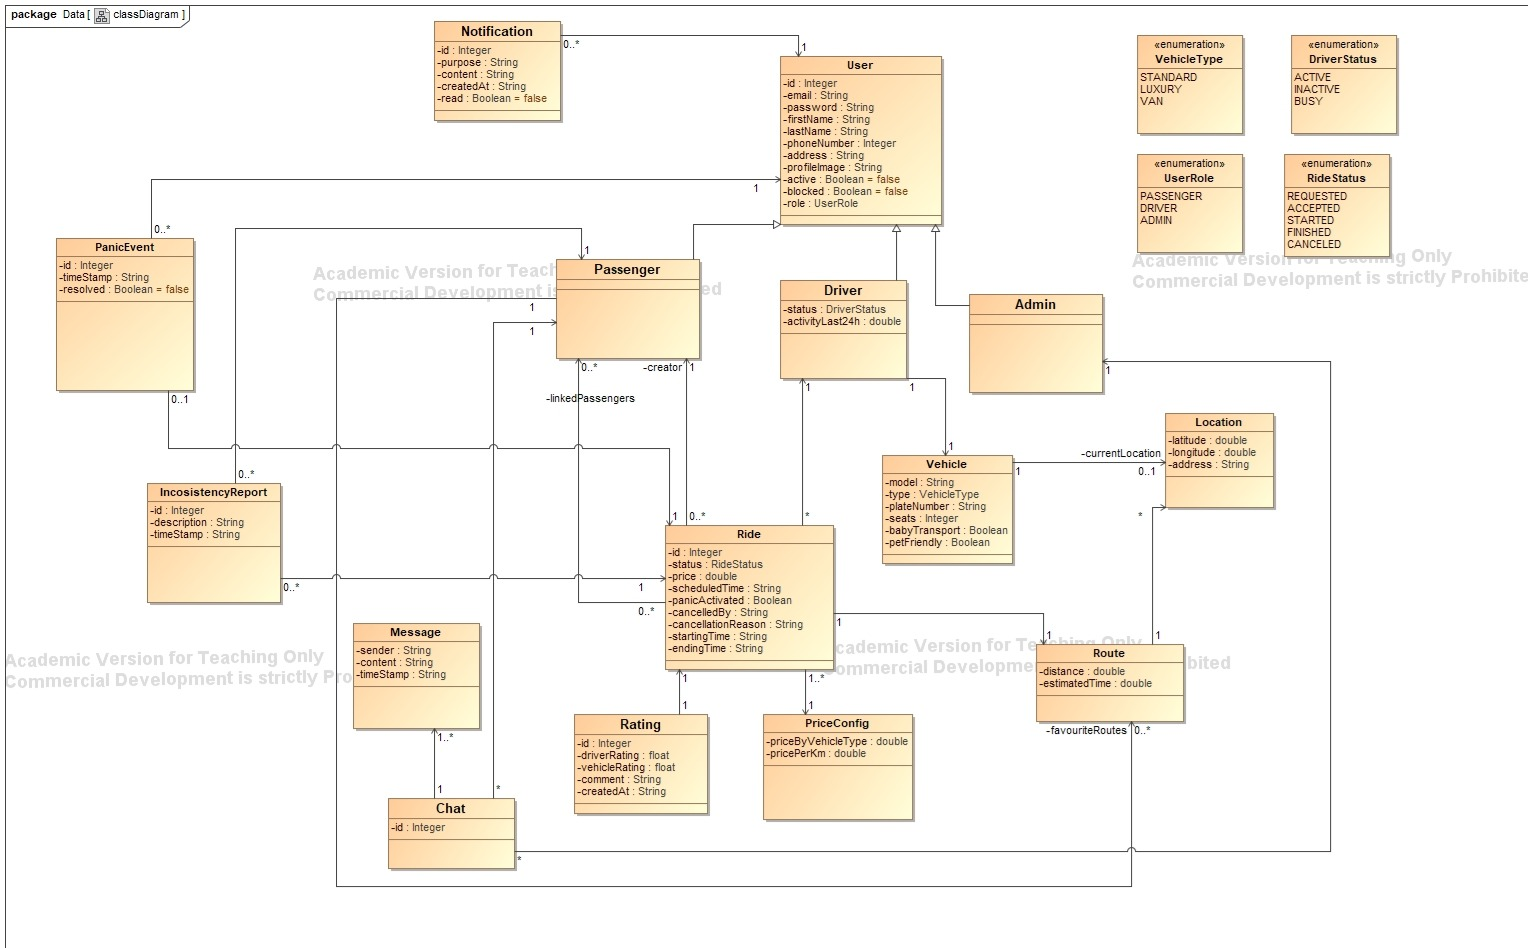
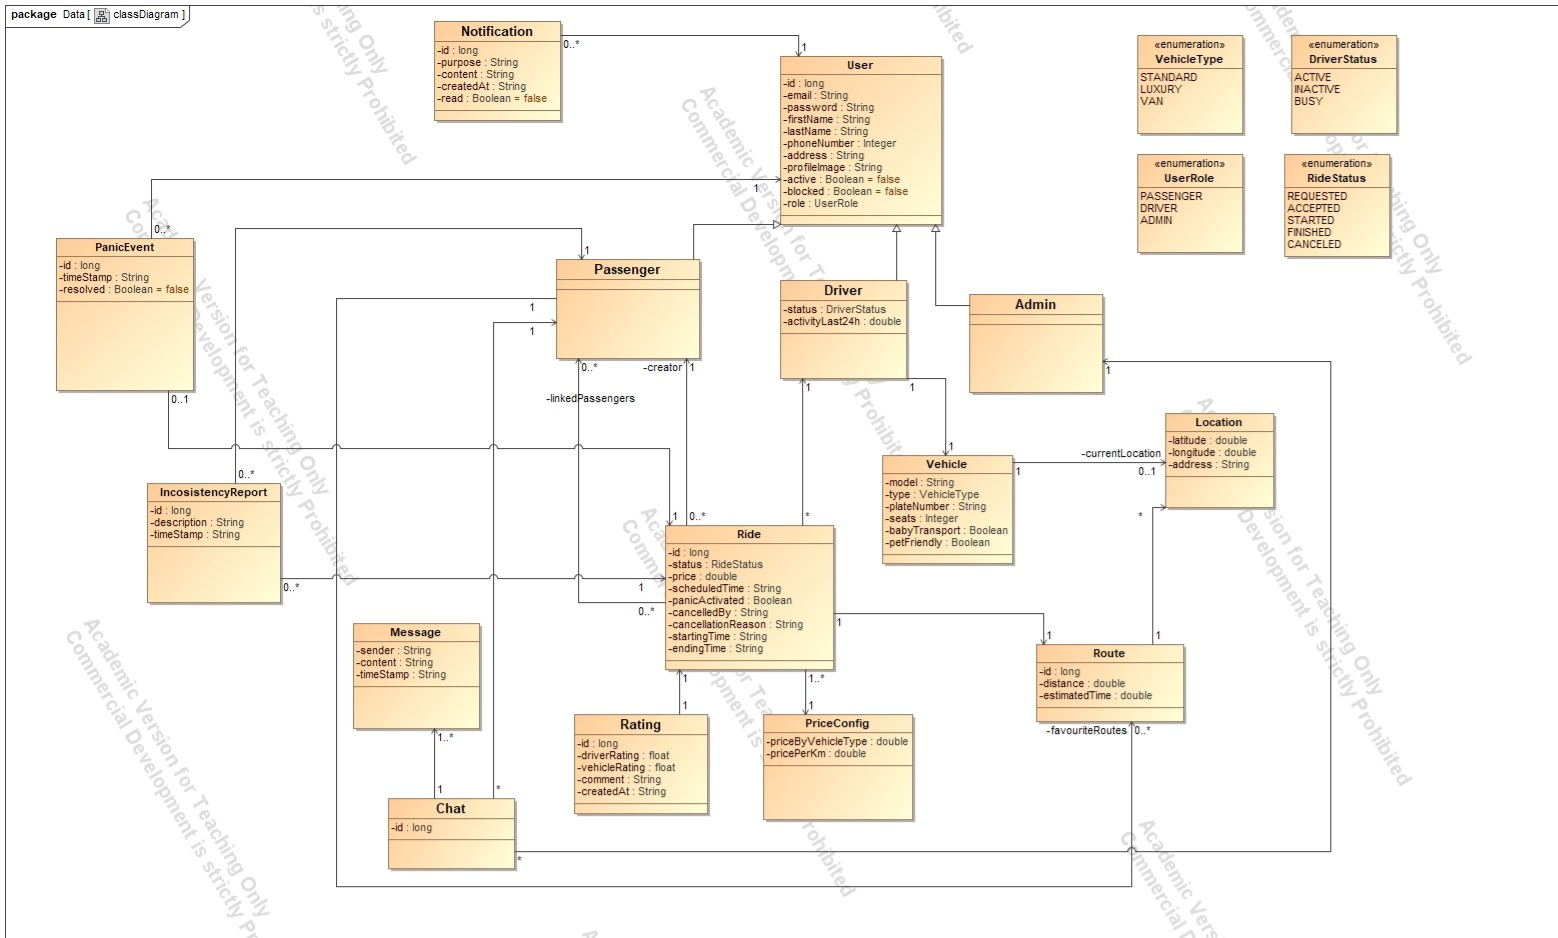
Fix: correct data and syntax inconsistencies (closes #24)

diff --git a/backend/Projekatsiit2025/src/main/java/rs/ac/uns/ftn/asd/Projekatsiit2025/controller/VehicleController.java b/backend/Projekatsiit2025/src/main/java/rs/ac/uns/ftn/asd/Projekatsiit2025/controller/VehicleController.java
@@ -12,6 +12,7 @@ import org.springframework.web.bind.annotation.RestController;
 
 import rs.ac.uns.ftn.asd.Projekatsiit2025.dto.GetVehicleDTO;
 import rs.ac.uns.ftn.asd.Projekatsiit2025.model.Location;
+import rs.ac.uns.ftn.asd.Projekatsiit2025.model.enums.VehicleType;
 
 @RestController
 @RequestMapping("/api/vehicles")
@@ -23,19 +24,34 @@ public class VehicleController {
 		
 		GetVehicleDTO vehicle1=new GetVehicleDTO();
 		vehicle1.setId(1L);
-		vehicle1.setCurrentLocation(new Location(45.9942,19.4456,"Heroja Pinkija 32"));
-		vehicle1.setOccupied(false);
+		vehicle1.setCurrentLocation(new Location(45.9942,19.4456,"Heroja Pinkija 32"));	
+		vehicle1.setModel("Ford focus");
+		vehicle1.setType(VehicleType.STANDARD);
+		vehicle1.setBabyTransport(false);
+		vehicle1.setPetFriendly(false);
+		vehicle1.setPlateNumber("NS-123-NS");
+		vehicle1.setSeats(4);
 		
         GetVehicleDTO vehicle2 = new GetVehicleDTO();
         vehicle2.setId(2L);
-		vehicle2.setCurrentLocation(new Location(44.3342,18.4456,"Bulevar Cara Lazara 17"));
-        vehicle2.setOccupied(true);
-        
+		vehicle2.setCurrentLocation(new Location(44.3342,18.4456,"Bulevar Cara Lazara 17")); 
+		vehicle2.setModel("Mercedes E220");
+		vehicle2.setType(VehicleType.LUXURY);
+		vehicle2.setBabyTransport(false);
+		vehicle2.setPetFriendly(false);
+		vehicle2.setPlateNumber("NS-222-NS");
+		vehicle2.setSeats(4);
+		
         GetVehicleDTO vehicle3 = new GetVehicleDTO();
         vehicle3.setId(3L);
 		vehicle3.setCurrentLocation(new Location(44.5544,18.7856,"Bulevar Cara Lazara 50"));
-        vehicle3.setOccupied(false);
-        
+		vehicle3.setModel("Yugo Coral 45");
+		vehicle3.setType(VehicleType.STANDARD);
+		vehicle3.setBabyTransport(false);
+		vehicle3.setPetFriendly(false);
+		vehicle3.setPlateNumber("NS-569-NS");
+		vehicle3.setSeats(4);
+		
         vehicles.add(vehicle1);
         vehicles.add(vehicle2);
         vehicles.add(vehicle3);

diff --git a/backend/Projekatsiit2025/src/main/java/rs/ac/uns/ftn/asd/Projekatsiit2025/controller/RideController.java b/backend/Projekatsiit2025/src/main/java/rs/ac/uns/ftn/asd/Projekatsiit2025/controller/RideController.java
@@ -202,7 +202,7 @@ public class RideController {
                 new Location(45.2671, 19.8335, request.getStartingAddress()),
                 new Location(45.2550, 19.8450, request.getEndingAddress())
         );
-        Route route = new Route(locations, 5.0, LocalDateTime.now().plusMinutes(15));
+        Route route = new Route(1L,locations, 5.0, LocalDateTime.now().plusMinutes(15));
 
         RideHistoryResponseDTO dto = new RideHistoryResponseDTO();
         dto.setRoute(route);
@@ -247,7 +247,7 @@ public class RideController {
                 new Location(45.2671, 19.8335, "Start Address"),
                 new Location(45.2550, 19.8450, "End Address")
         );
-        Route route = new Route(locations, 5.0, LocalDateTime.now().plusMinutes(15));
+        Route route = new Route(1L,locations, 5.0, LocalDateTime.now().plusMinutes(15));
 
         RideHistoryResponseDTO ride = new RideHistoryResponseDTO();
         ride.setRoute(route);

diff --git a/backend/Projekatsiit2025/src/main/java/rs/ac/uns/ftn/asd/Projekatsiit2025/controller/DriverController.java b/backend/Projekatsiit2025/src/main/java/rs/ac/uns/ftn/asd/Projekatsiit2025/controller/DriverController.java
@@ -94,6 +94,8 @@ public class DriverController {
 			return new ResponseEntity<GetDriverDTO>(HttpStatus.NOT_FOUND);
 		}
 		return new ResponseEntity<GetDriverDTO>(driver, HttpStatus.OK);
+	}
+	
 	@GetMapping("/{driverId}/rides/history")
 	public ResponseEntity<Collection<DriverRideHistoryDTO>> getDriverRideHistory(
 	        @PathVariable Long driverId,
@@ -130,7 +132,7 @@ public class DriverController {
 	    ride1.setRideId(1L);
 	    ride1.setStartingTime(LocalDateTime.of(2025, 1, 10, 14, 30));
 	    ride1.setEndingTime(LocalDateTime.of(2025, 1, 10, 15, 0));
-	    ride1.setRoute(new Route(locations,3.7,LocalDateTime.of(2025, 1, 10, 14, 55)));
+	    ride1.setRoute(new Route(1L,locations,3.7,LocalDateTime.of(2025, 1, 10, 14, 55)));
 	    ride1.setCanceled(false);
 	    ride1.setCanceledBy(null);
 	    ride1.setPrice(850.00);

diff --git a/backend/Projekatsiit2025/src/main/java/rs/ac/uns/ftn/asd/Projekatsiit2025/controller/AdminController.java b/backend/Projekatsiit2025/src/main/java/rs/ac/uns/ftn/asd/Projekatsiit2025/controller/AdminController.java
@@ -35,7 +35,7 @@ public class AdminController {
         locations.add(new Location(45.2671, 19.8335, "Starting Point"));
         locations.add(new Location(45.2550, 19.8450, "Ending Point"));
 
-        Route route = new Route(locations, 5.0, LocalDateTime.now().plusMinutes(15));
+        Route route = new Route(1L,locations, 5.0, LocalDateTime.now().plusMinutes(15));
 
         RideHistoryResponseDTO ride = new RideHistoryResponseDTO();
         ride.setRoute(route);
